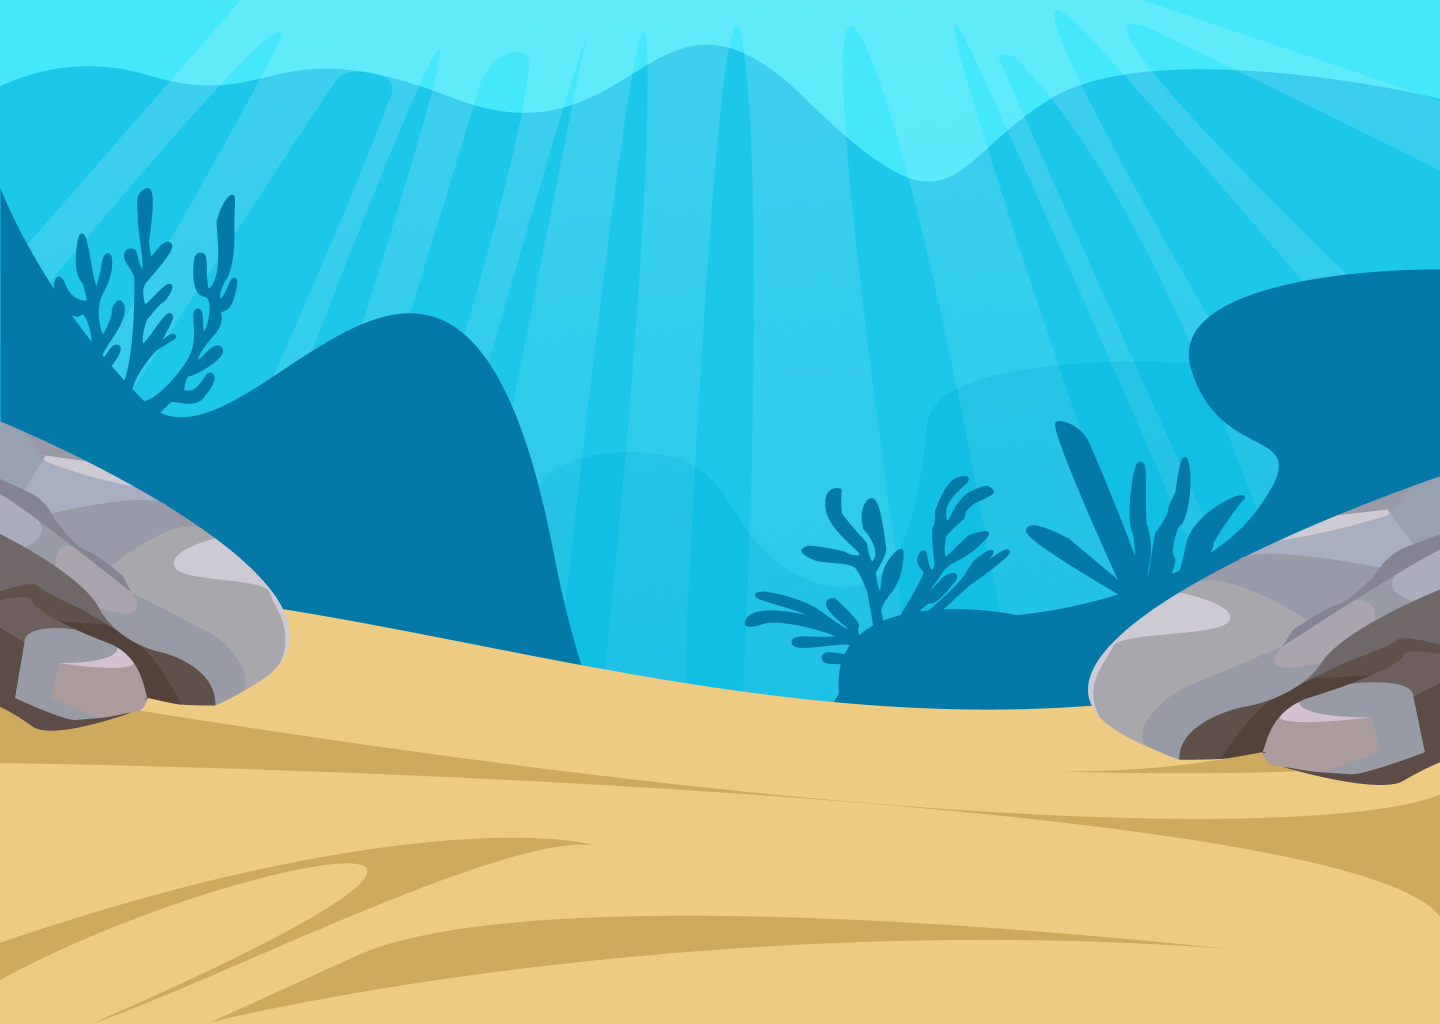
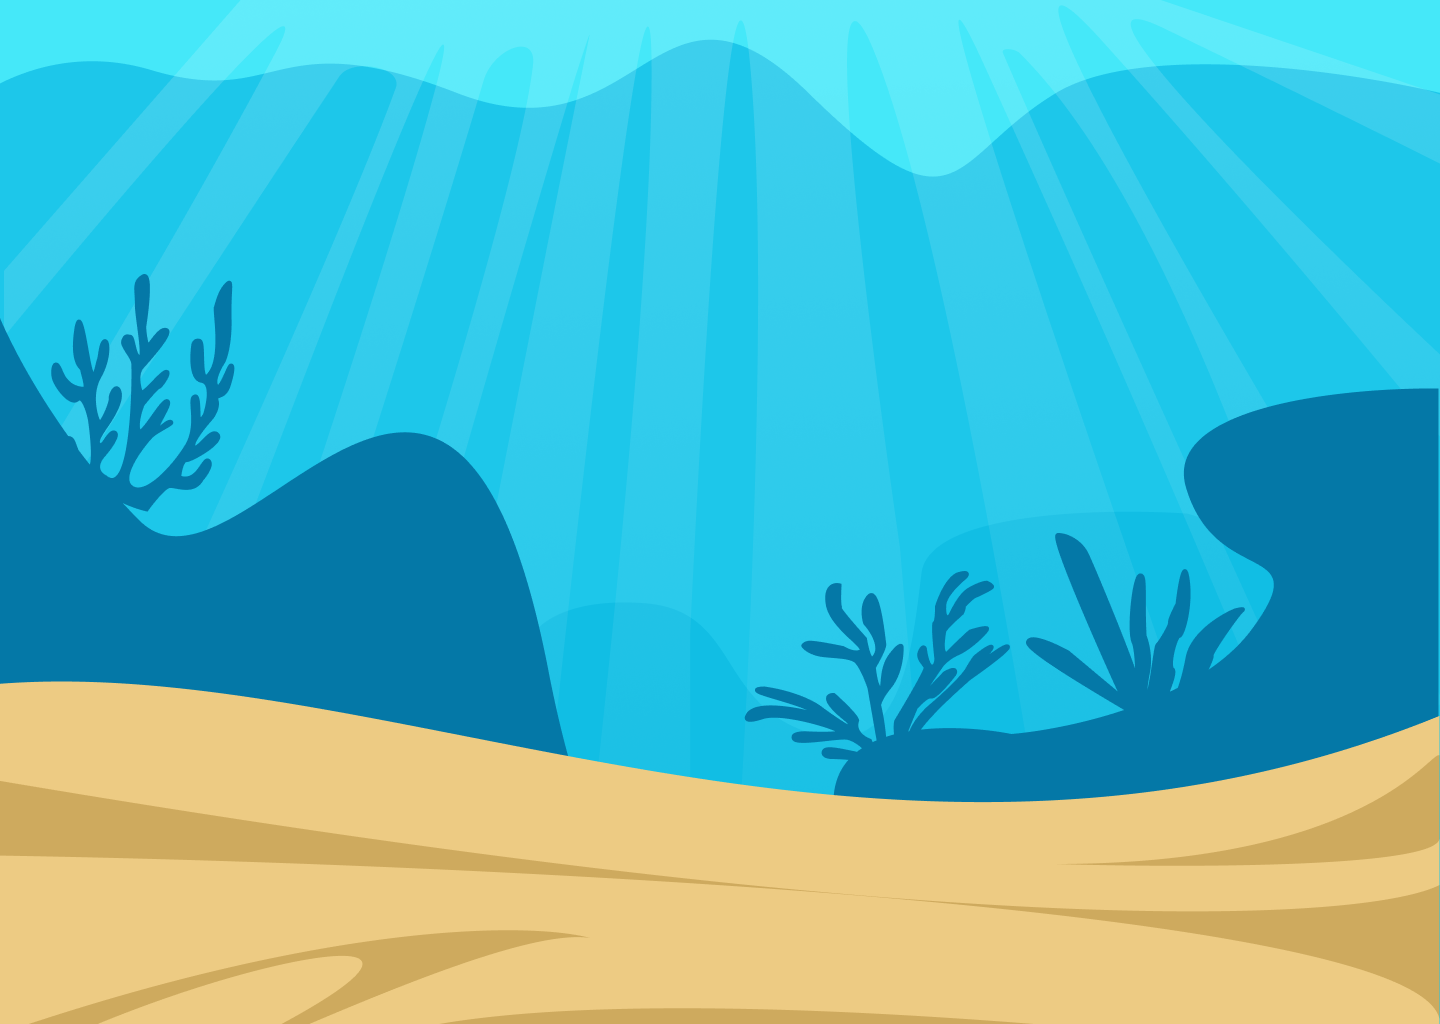
søstjerne, havfrue, kiste og baggrunde opdateret, css rettet

diff --git a/css/havfrue.css b/css/havfrue.css
@@ -36,15 +36,15 @@ body {
 .scene {
   position: relative;
   width: 100%;
-  height: 100vh;
+  min-height: 100vh;
   overflow: hidden;
 }
 
 .bg {
   position: absolute;
   inset: 0;
-  background-size: cover;
-  background-position: center;
+  background-size: cover; /* fyld hele skærmen, må gerne cutte */
+  background-position: bottom center; /* behold bunden, cut fra toppen */
   background-repeat: no-repeat;
 }
 
@@ -77,18 +77,18 @@ body {
 /* kiste lukket*/
 .kiste1 {
   position: absolute;
-  bottom: 7vw;
-  right: 10vw;
-  width: 20vw;
+  bottom: 33vw;
+  right: 0.5vw;
+  width: 1.5vw;
   z-index: 3;
 }
 
 /* kiste åben */
 .kiste2 {
   position: absolute;
-  bottom: 7vw;
-  right: 10vw;
-  width: 20vw;
+  bottom: 33vw;
+  right: 0.5vw;
+  width: 1.5vw;
   z-index: 3;
 }
 
@@ -111,15 +111,13 @@ body {
 /* talebobler skjult */
 .taleboble {
   position: absolute;
-  top: 30%;
-  left: 33%;
-  width: 250px;
+  bottom: 45vh;
+  left: 14.5vh;
   display: none;
   z-index: 6;
 }
 
 .taleboble img {
-  width: 100%;
   z-index: 6;
 }
 
@@ -128,9 +126,9 @@ body {
 --------------------------------------------------------- */
 .havfrue {
   position: absolute;
-  bottom: -2vw;
-  left: 13vw;
-  width: 22vw;
+  bottom: 4vw;
+  left: 5vw;
+  width: 33vw;
   z-index: 2;
   transform-origin: 30% 80%;
   animation: tail 1s ease-in-out infinite alternate;
@@ -165,8 +163,8 @@ body {
 /*   søstjerne  */
 .starfish {
   position: absolute;
-  bottom: 3.3vw; /* stå fast på havbunden */
-  left: 28vw; /* justér, så den ligger lige under havfruens hale */
+  bottom: 3.3vw;
+  right: 20vw;
   width: 8vw;
   z-index: 3;
   cursor: pointer;

diff --git a/html/havfrue.html b/html/havfrue.html
@@ -58,7 +58,7 @@
 
       <!-- Søstjerne -->
       <img
-        src="../img/sostjerne.png"
+        src="../img/fisk/starfish.png"
         id="starfish"
         class="starfish"
         alt="søstjerne"
